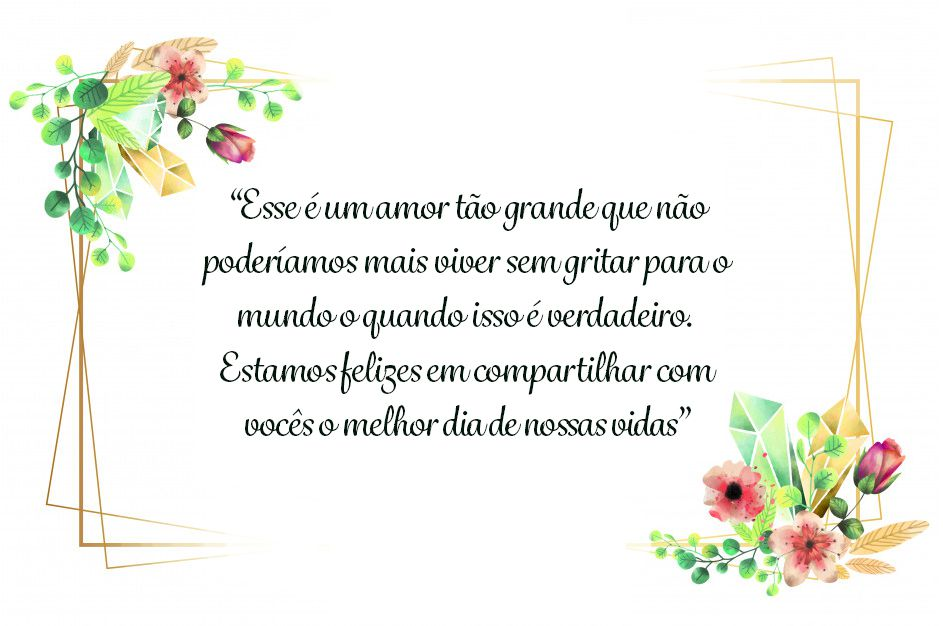
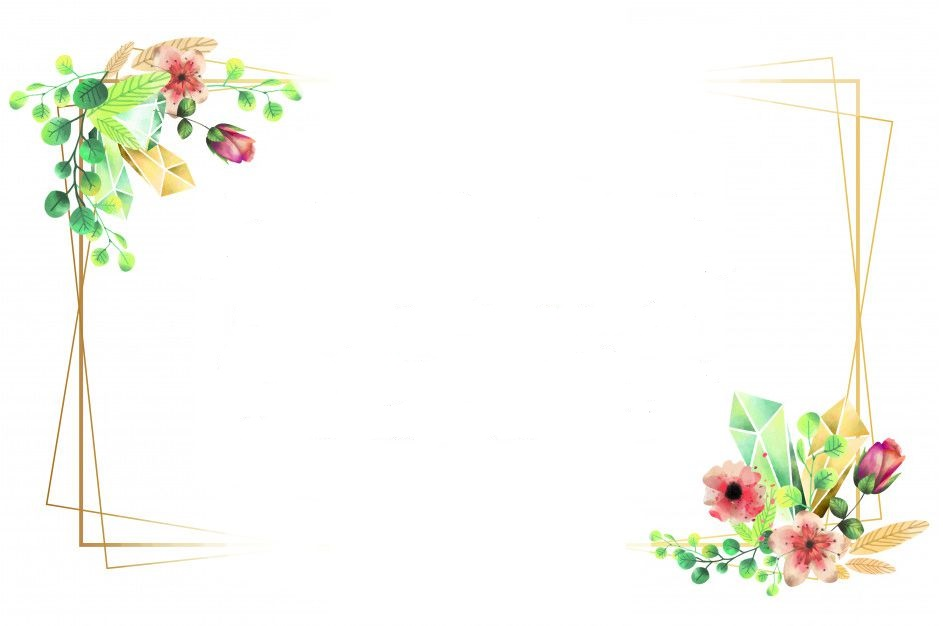
Arquivos atualizados para acesso via mobile

Changed region(s): [[0.2153, 0.4856, 0.7688, 0.6981], [0.2153, 0.3946, 0.7688, 0.4553], [0.246, 0.3035, 0.7688, 0.3642]]

diff --git a/style.css b/style.css
@@ -1,19 +1,23 @@
 @import url("https://fonts.googleapis.com/css2?family=Great+Vibes&display=swap");
 
 * {
-  margin: 5px;
-  padding: 5px;
+  margin: 1px;
+  margin-bottom: 0;
+  padding: 1px;
 }
 
 html {
   scroll-behavior: smooth;
 }
+
 body {
   background-color: white;
   background-image: url(assets/background.jpg);
   background-position: center;
   background-attachment: scroll;
-  background-size: 100% 100%;
+  background-size: cover;
+  margin: 10px;
+  height: 100%;
 }
 
 .borda_texto {
@@ -22,12 +26,23 @@ body {
   letter-spacing: 1px;
   color: black;
   text-align: center;
-  height: 260px;
+  height: 140px;
+}
+p {
+  font-family: "Great Vibes", cursive;
+  font-size: 30px;
+  text-align: center;
+}
+.container1 {
+  display: block;
+  justify-content: space-between;
+  height: 20px;
 }
 .container {
   display: flex;
   justify-content: center;
-  margin-top: 190px;
+  margin-top: 300px;
+  margin-bottom: 90px;
 }
 .bt {
   text-decoration: none;
@@ -65,11 +80,78 @@ body {
   top: 5px;
   box-shadow: none;
 }
+@media only screen and (max-width: 480px) {
+  body {
+    background-color: white;
+    background-image: url(assets/background-resp.png);
+    background-position: center;
+    background-attachment: scroll;
+    background-size: cover;
+  }
+  .container1 {
+    display: flex;
+    flex-direction: column;
+    justify-content: center;
+    align-items: center;
+    margin-top: 0;
+    margin-bottom: 0;
+    height: 10px;
+  }
+  p {
+    font-family: "Great Vibes", cursive;
+    font-size: 30px;
+    text-align: center;
+  }
 
+  .container {
+    display: flex;
+    align-items: center;
+    justify-content: center;
+    margin-bottom: 0;
+    margin-top: 350px;
+  }
+  .borda_texto {
+    font-family: "Great Vibes", cursive;
+    font-size: 45px;
+    letter-spacing: 1px;
+    color: black;
+    text-align: center;
+    height: 290px;
+  }
+
+  .botao {
+    display: flex;
+    justify-content: center;
+    align-items: center;
+    font-family: "Great Vibes", cursive;
+    font-size: 30px;
+    border: none;
+    border-radius: 10px;
+    padding: 10px;
+    height: 80px;
+    width: 250px;
+    cursor: pointer;
+  }
+
+  .botao1 {
+    align-items: right;
+    background: rgba(250, 243, 243, 0.568);
+    box-shadow: 0 2px 0 rgba(8, 126, 12, 0.39);
+  }
+
+  .botao1:hover {
+    background: #1e920e3d;
+    box-shadow: 0 3px 0 rgba(88, 184, 91, 0.24);
+  }
+
+  .botao1:active {
+    position: relative;
+    top: 5px;
+    box-shadow: none;
+  }
+}
 footer {
   font-size: 8px;
   color: rgb(150, 150, 150);
-  margin-top: 20px;
-  margin-bottom: 0;
   text-align: center;
 }

diff --git a/index.html b/index.html
@@ -1,25 +1,40 @@
 <!DOCTYPE html>
 <html lang="en">
-<head>
-    <meta charset="UTF-8">
-    <meta http-equiv="X-UA-Compatible" content="IE=edge">
-    <meta name="viewport" content="width=device-width, initial-scale=1.0">
-    <link rel="stylesheet" href="style.css">
+  <head>
+    <meta charset="UTF-8" />
+    <meta http-equiv="X-UA-Compatible" content="IE=edge" />
+    <meta name="viewport" content="width=device-width, initial-scale=1.0" />
+    <link rel="stylesheet" href="style.css" />
     <title>Karen&Reanan</title>
-</head>
-<body>
-      <h1 class="borda_texto">Karen & Renan</h1>
-  
-        <div class="container">
-            
-                <button class="botao botao1"><a class="bt" href="https://www.casamentos.com.br/web/karen-and-renan">Clique para confirmar sua presença</a></button>
-            </div>
-        
-            
+  </head>
+  <body>
+    <h1 class="borda_texto">Karen & Renan</h1>
 
+    <div class="container1">
+      <p>
+        "O amor tudo sofre, tudo crê, tudo espera, tudo suporta. <br />(I Cor
+        13:7)"
+      </p>
+      <br />
+      <p>
+        Somos um casal que se reinventa e recomeça sempre que necessário.<br />
+        Vamos fazer isso mais uma vez!<br />
+      </p>
+      <p>
+        Ficaremos felizes em compartilhar com você o dia mais especial de nossas
+        vidas: <br />
+        O nosso casamento!
+      </p>
+    </div>
 
-    <footer>
-        <p>Feito com amor, pela melhor madinha do mundo!</a></p>
-    </footer>
-</body>
+    <div class="container">
+      <button class="botao botao1">
+        <a class="bt" href="https://www.casamentos.com.br/web/karen-and-renan"
+          >Clique para confirmar sua presença</a
+        >
+      </button>
+    </div>
+
+    <footer>Feito com amor, pela melhor madrinha do mundo!</footer>
+  </body>
 </html>
